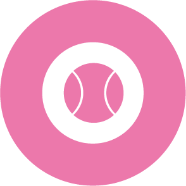
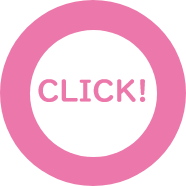
画像の差し替えとcss調整

diff --git a/public/css/category_page.css b/public/css/category_page.css
@@ -50,7 +50,15 @@ body {
 }
 .name{
 	font-size: 30px;
-	color:#a89e9e;
+}
+#work{
+    color:#ec78ab;
+}
+#rule{
+    color:#e8c043;
+}
+#trivia{
+    color:#2bada9;
 }
 .explanation{
     padding: 5px 10px;
@@ -130,7 +138,15 @@ body {
     margin: 10px auto;
 	padding: 5px 10px;
 	font-size: 60px;
-	color:#a89e9e;
+}
+#work{
+    color:#ec78ab;
+}
+#rule{
+    color:#e8c043;
+}
+#trivia{
+    color:#2bada9;
 }
 #buttons{
     display:flex;

diff --git a/public/css/index_page.css b/public/css/index_page.css
@@ -15,7 +15,7 @@ body {
 }
 #challengeImage{
   text-align: center;
-  margin-top: -20px;
+  margin-top: -25px;
 }
 #about-quiz-content{
     width:100%;
@@ -23,8 +23,7 @@ body {
 #quiz-content-title{
     font-family: "メイリオ";
     font-size:25px;
-    width: 370px;
-    margin:0 auto;
+    text-align: center;
 }
 
 #quiz-explain{

diff --git a/resources/views/quiz/category.blade.php b/resources/views/quiz/category.blade.php
@@ -21,9 +21,9 @@
             </div>
         </div>
         <div id="category-names" class="pc">
-            <h2 class="name">仕事</h2>
-            <h2 class="name">審判</h2>
-            <h2 class="name">雑学</h2>
+            <h2 id ="work" class="name">仕事</h2>
+            <h2 id="rule" class="name">審判</h2>
+            <h2 id="trivia" class="name">雑学</h2>
         </div>
         <div id="buttons">
             <!--PC画像-->
